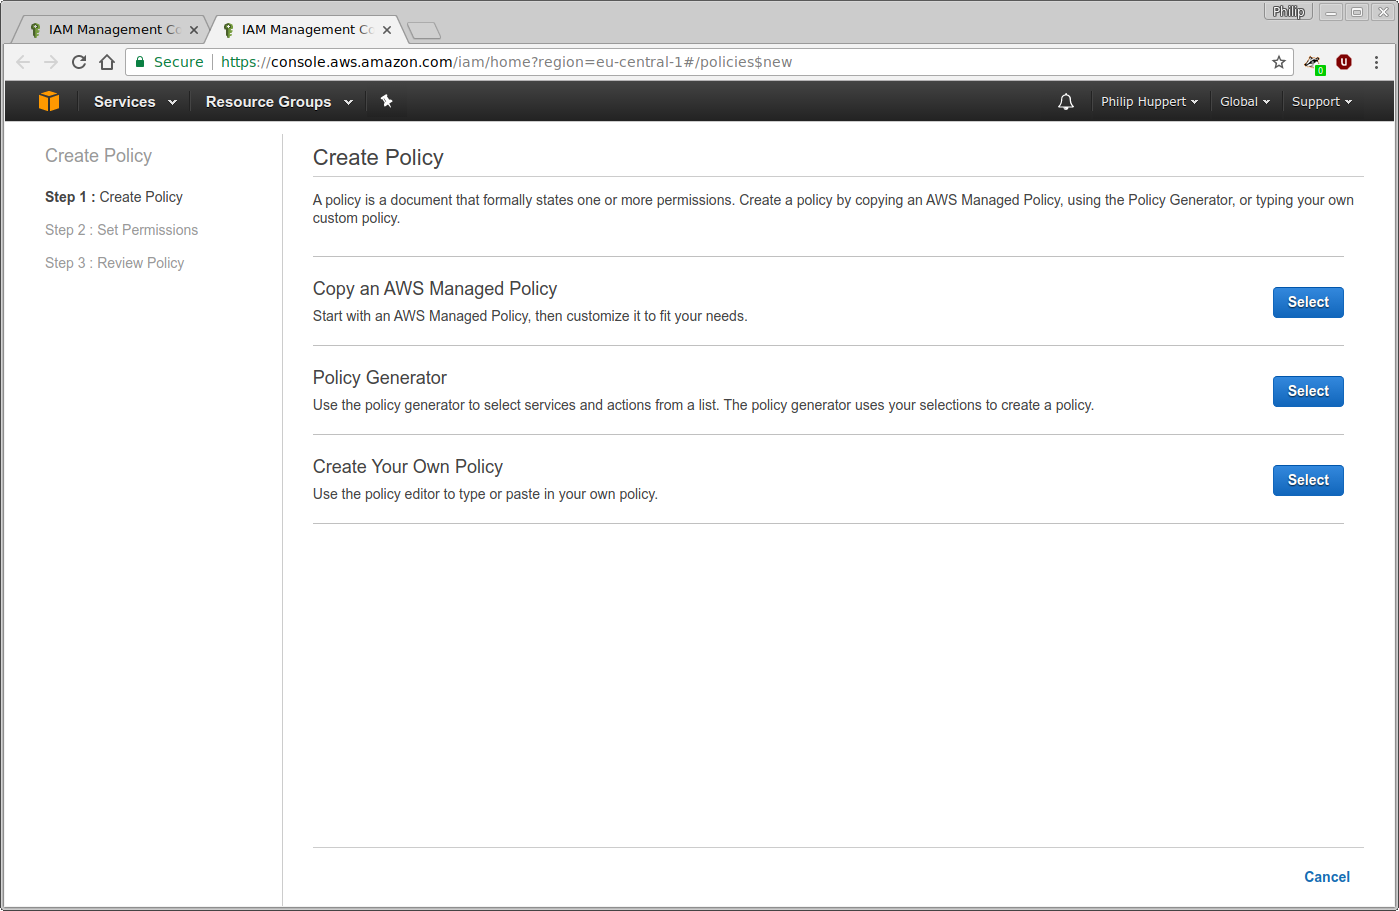
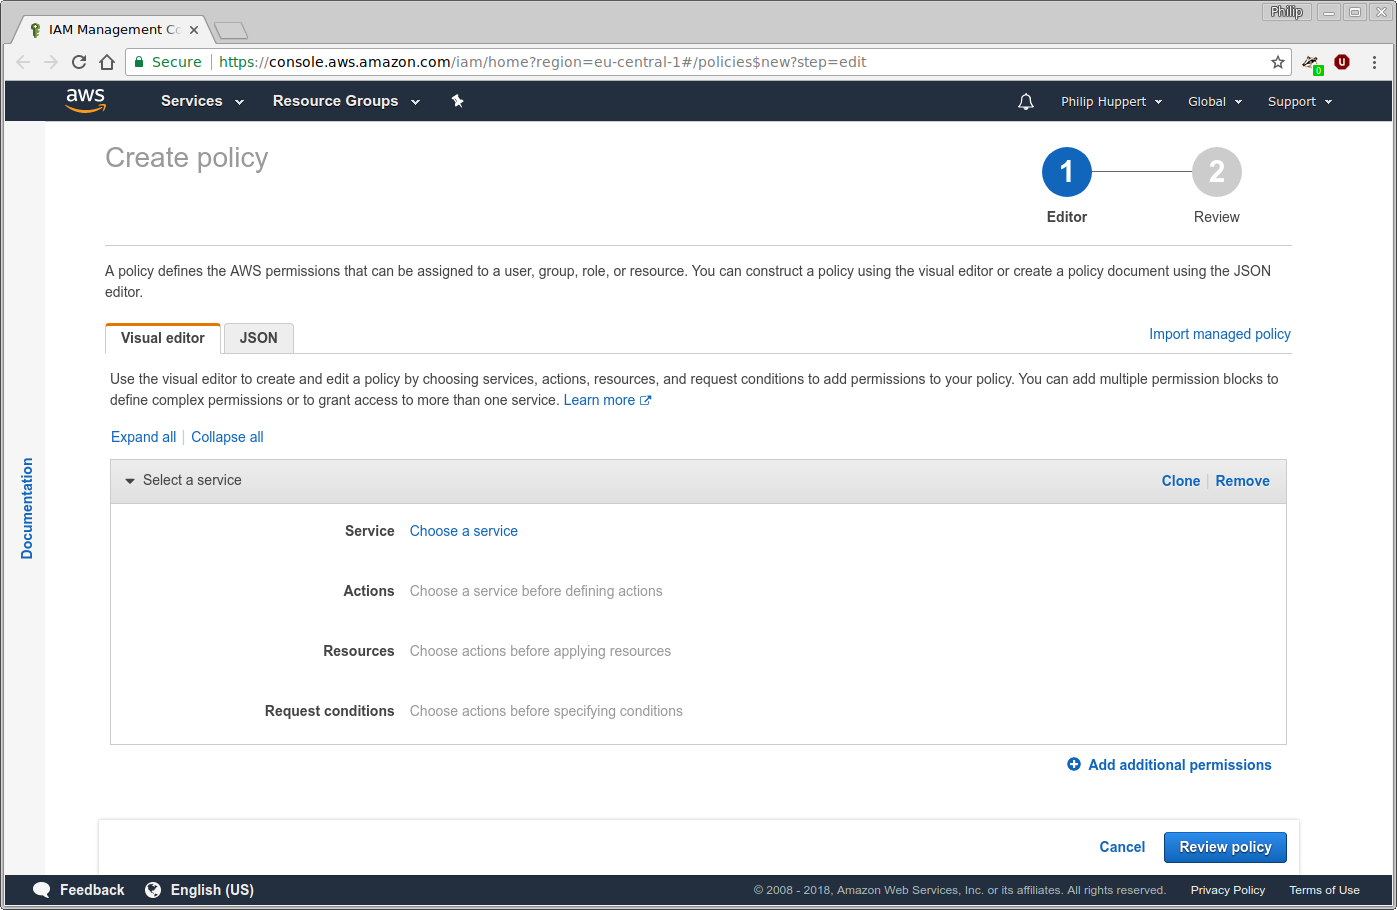
Update AWS S3 tutorial, fixing #1593

diff --git a/doc/080_examples.rst b/doc/080_examples.rst
@@ -121,48 +121,40 @@ policy:
    :alt: Assign a Policy
 
 A new browser window or tab will open with the policy wizard. In Amazon IAM,
-policies are defined as JSON documents. For this tutorial, the "Policy
-Generator" will be used to generate a policy file using a web interface:
+policies are defined as JSON documents. For this tutorial, the "Visual editor"
+will be used to generate a policy:
 
 .. image:: images/aws_s3/11_policy_start.png
    :alt: Create a New Policy
 
-After invoking the policy generator, you will be presented with a user
-interface to generate individual permission statements. For restic to work, two
-such statements must be created. The first statement is set up as follows:
+For restic to work, two permission statements must be created using the visual
+policy editor. The first statement is set up as follows:
 
 .. code::
 
-   Effect: Allow
-   Service: Amazon S3
-   Actions: DeleteObject, GetObject, PutObject
-   Resource: arn:aws:s3:::restic-demo/*
+   Service: S3
+   Allow Actions: DeleteObject, GetObject, PutObject
+   Resources: arn:aws:s3:::restic-demo/*
 
 This statement allows restic to create, read and delete objects inside the S3
-bucket named ``restic-demo``. Adjust the bucket's name to the name of the bucket
-you created earlier. Using the "Add Statement" button, this statement can be
-saved. Now a second statement is created:
+bucket named ``restic-demo``. Adjust the bucket's name to the name of the
+bucket you created earlier. Next, add a second statement using the "Add
+additional permissions" button:
 
 .. code::
 
-   Effect: Allow
-   Service: Amazon S3
-   Actions: ListBucket
+   Service: S3
+   Allow Actions: ListBucket, GetBucketLocation
    Resource: arn:aws:s3:::restic-demo
 
-Again, substitute ``restic-demo`` with the actual name of your bucket. Note that,
-unlike before, there is no ``/*`` after the bucket name. This statement allows
-restic to list the objects stored in the ``restic-demo`` bucket. Again, use "Add
-Statement" to save this statement. The policy creator interface should now
-look as follows:
+Again, substitute ``restic-demo`` with the actual name of your bucket. Note
+that, unlike before, there is no ``/*`` after the bucket name. This statement
+allows restic to list the objects stored in the ``restic-demo`` bucket and to
+query the bucket's region.
 
-.. image:: images/aws_s3/12_policy_permissions_done.png
-   :alt: Policy Creator With Two Statements
-
-Continue to the next step and enter a name and description for this policy. For
-this tutorial, the policy will be named ``restic-demo-policy``. In this step you
-can also examine the JSON document created by the policy generator. Click
-"Create Policy" to finish the process:
+Continue to the next step by clicking the "Review policy" button and enter a
+name and description for this policy. For this tutorial, the policy will be
+named ``restic-demo-policy``. Click "Create policy" to finish the process:
 
 .. image:: images/aws_s3/13_policy_review.png
    :alt: Policy Review
